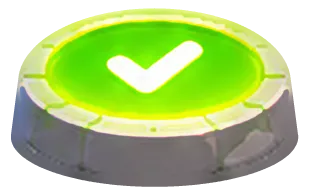
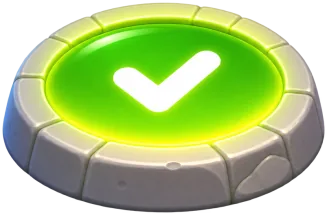
feat: exit pads straight from the owner's high-resolution pictures
The three looks are now the owner's checkpoint pictures, only downscaled
(stone 320 px = 1 cell, each look scaled on its own stone), with the
anchor on the fitted face centre. Evidence in
production/qa/evidence/garden-exit/elements/.

Design: design/themes/garden-exit.md

Claude-Session: https://claude.ai/code/session_01PBSmYqBfYXyG8SyW6SfNEM

diff --git a/tools/asset-pipeline/garden_exit/exit_pads.py b/tools/asset-pipeline/garden_exit/exit_pads.py
@@ -1,43 +1,99 @@
-"""Exit pad in three looks (grey, green, rays), cut from 22-sheet-exit-pad-states.
+"""Exit pad in three looks (grey, green, rays), from the owner's high-resolution pictures.
 
-`source_pad(look)` is the cut-out at the owner's size; `pad(look)` the enlarged one the game
-uses, with its anchor (the face centre) in pixels. Other parts derive from `source_pad('green')`.
+`hires_pad(look)` is the part the game uses: the owner's picture (`checkpoints.source`), only
+downscaled (premultiplied area average, `checkpoints.shrink`), nothing repainted. Other parts can
+build from `hires_pad('green')`.
 
-The owner's sheet is tiny (each pad ~100 px wide), so `pad` rebuilds what an enlargement cannot
-invent from the owner's picture itself, and nothing else:
+The three pictures are not drawn at the same scale, so each look is measured on its own:
 
-- the silhouette of the stone body is the convex hull of two ellipses (the rim top and the base
-  bottom) fitted to the pad's own outline, drawn antialiased at the output size, so it is a clean
-  curve instead of a blurred, bumpy edge;
-- the three rays are traced from the sheet (their saturated yellow), the traced outline smoothed
-  and drawn antialiased at the output size;
-- inside these shapes the colour is the owner's painting, enlarged with `enlarge.enlarge`
-  (Lanczos, then edges steepened between their local extremes: crisp tick, face edge and stone
-  joints, smooth shading, no ringing); colour is bled outward from the solid pixels, so no white
-  of the sheet can show as a halo;
-- the soft light glow around the rays stays soft (enlarged as it is); the faint drop shadow under
-  each pad on the sheet is left out, like the cut-outs before.
+- the stone: the widest run of fully opaque pixels below the rays (the stone's own outline, not
+  the glow or the rays); each look is scaled so that run is `PAD_STONE_OUT_PX` wide, and the stone
+  is one cell, so the three pads are the same size in the game;
+- the anchor (the point the game puts over the cell centre): the centre of an ellipse fitted to the
+  outline of the pad's face (the inner ellipse), carried to output pixels.
+
+`source_pad` and `anchor` are the old 22-sheet cut-out and its anchor, kept for the parts that
+still import them.
 """
 from __future__ import annotations
+
+from functools import lru_cache
 
 import cv2
 import numpy as np
 from scipy import ndimage
 
-from enlarge import enlarge
-from lib import CELLS_PER_SOURCE_PX, bottom, crop, cut_out, face_centre, hue_sat_val, load, write_part
+from checkpoints import PAD_STONE_OUT_PX, shrink, source
+from lib import bottom, crop, cut_out, face_centre, load, write_part
 
-# Each pad's box on the sheet (x0, y0, x1, y1); the small red mark under the third is left out.
+LOOKS = ("grey", "green", "rays")
+# Fully opaque: the stone is measured on these pixels, so the soft glow edge does not count.
+SOLID = 250
+# On the rays picture the stone starts below this row of `source('rays')` (the rays are above).
+RAYS_STONE_TOP = 270
+
+
+def stone_width(rgba: np.ndarray, look: str) -> int:
+    """Width in px of the widest solid row of the stone body."""
+    solid = rgba[..., 3] > SOLID
+    if look == "rays":
+        solid[:RAYS_STONE_TOP] = False
+    best = 0
+    for row in solid:
+        xs = np.nonzero(row)[0]
+        if len(xs):
+            best = max(best, int(xs[-1] - xs[0] + 1))
+    return best
+
+
+def _largest(mask: np.ndarray) -> np.ndarray:
+    lab, n = ndimage.label(mask)
+    sizes = ndimage.sum(mask, lab, range(1, n + 1))
+    return lab == int(np.argmax(sizes)) + 1
+
+
+def face_mask(rgba: np.ndarray, look: str) -> np.ndarray:
+    """The pad's face (inner ellipse), tick included.
+
+    Green and rays: the saturated green. Grey: the mid-grey inside the light rim (the face is
+    darker than the rim top and lighter than the groove round it)."""
+    r, g, b, a = (rgba[..., i] for i in range(4))
+    opaque = a > SOLID
+    if look == "grey":
+        lum = (r + g + b) / 3
+        m = ndimage.binary_opening((lum > 112) & (lum < 180) & opaque, iterations=3)
+    else:
+        m = ndimage.binary_opening((g - b > 120) & (g > 150) & (g - r > 40) & opaque, iterations=2)
+    return ndimage.binary_fill_holes(ndimage.binary_closing(_largest(m), iterations=10))
+
+
+def face_ellipse(rgba: np.ndarray, look: str) -> tuple[float, float, float, float]:
+    """(cx, cy, width, height) of the ellipse fitted to the face outline, in the picture's px."""
+    found, _ = cv2.findContours(face_mask(rgba, look).astype(np.uint8), cv2.RETR_EXTERNAL, cv2.CHAIN_APPROX_NONE)
+    (cx, cy), (d0, d1), angle = cv2.fitEllipse(max(found, key=len))
+    w, h = (d1, d0) if 45 < angle < 135 else (d0, d1)
+    return cx, cy, w, h
+
+
+@lru_cache(maxsize=None)
+def _hires(look: str) -> tuple[np.ndarray, tuple[float, float]]:
+    src = source(look)
+    rgba = shrink(src, PAD_STONE_OUT_PX / stone_width(src, look))
+    # Pixel centres: out = (in + 0.5) * scale - 0.5, with the scale shrink actually used per axis.
+    sx, sy = rgba.shape[1] / src.shape[1], rgba.shape[0] / src.shape[0]
+    cx, cy, _, _ = face_ellipse(src, look)
+    return rgba, ((cx + 0.5) * sx - 0.5, (cy + 0.5) * sy - 0.5)
+
+
+def hires_pad(look: str) -> tuple[np.ndarray, tuple[float, float]]:
+    """One look at output size (stone `PAD_STONE_OUT_PX` wide = 1 cell) and its anchor in px."""
+    rgba, at = _hires(look)
+    return rgba.copy(), at
+
+
+# --- The old 22-sheet cut-out, kept for parts that import it -------------------------------------
 BOXES = {"grey": (5, 0, 108, 88), "green": (117, 0, 224, 88), "rays": (236, 0, 342, 86)}
 SHEET = "22-sheet-exit-pad-states"
-
-# Output size: FACTOR times the owner's sheet (~300 px wide pads).
-FACTOR = 3
-# Outlines are traced at TRACE times the sheet and smoothed along their length by SMOOTH sheet px.
-TRACE = 8
-SMOOTH = 0.9
-# Antialiasing: shapes are drawn at SUPER times the output size and averaged down.
-SUPER = 4
 
 
 def source_pad(look: str) -> np.ndarray:
@@ -53,151 +109,9 @@ def anchor(look: str, rgba: np.ndarray) -> tuple[float, float]:
     return ((xs.min() + xs.max()) / 2, bottom(rgba) - rise)
 
 
-def _window(look: str) -> tuple[np.ndarray, np.ndarray]:
-    """The cut-out and the raw sheet colour over exactly the area `source_pad` covers."""
-    rgb = load(SHEET)
-    cut = cut_out(rgb)
-    x0, y0, x1, y1 = BOXES[look]
-    cut, rgb = cut[y0:y1, x0:x1], rgb[y0:y1, x0:x1]
-    ys, xs = np.nonzero(cut[..., 3] > 3)
-    m = 2  # the margin lib.crop keeps
-    sy = slice(max(0, ys.min() - m), min(cut.shape[0], ys.max() + 1 + m))
-    sx = slice(max(0, xs.min() - m), min(cut.shape[1], xs.max() + 1 + m))
-    return cut[sy, sx], rgb[sy, sx]
-
-
-def _outlines(mask: np.ndarray, level: float = 0.5, min_area: float = 12) -> list[np.ndarray]:
-    """Sub-pixel outlines (sheet px, pixel edges at integers) of a 0..1 map at `level`, smoothed."""
-    h, w = mask.shape
-    big = cv2.resize(mask.astype(np.float32), (w * TRACE, h * TRACE), interpolation=cv2.INTER_CUBIC)
-    found, _ = cv2.findContours((big > level).astype(np.uint8), cv2.RETR_EXTERNAL, cv2.CHAIN_APPROX_NONE)
-    out = []
-    for c in found:
-        if cv2.contourArea(c) < min_area * TRACE * TRACE:
-            continue
-        p = ndimage.gaussian_filter1d(c[:, 0, :].astype(float), SMOOTH * TRACE, axis=0, mode="wrap")
-        out.append((p + 0.5) / TRACE)
-    return out
-
-
-def _ellipse(points: np.ndarray) -> tuple[float, float, float, float]:
-    """Axis-aligned ellipse (cx, cy, rx, ry) through `points` by least squares."""
-    x, y = points[:, 0], points[:, 1]
-    a, b, c, d = np.linalg.lstsq(np.c_[x * x, y * y, x, y], np.ones(len(x)), rcond=None)[0]
-    cx, cy = -c / (2 * a), -d / (2 * b)
-    r = 1 + a * cx * cx + b * cy * cy
-    return cx, cy, float(np.sqrt(r / a)), float(np.sqrt(r / b))
-
-
-def _ellipse_points(e: tuple[float, float, float, float], n: int = 720) -> np.ndarray:
-    cx, cy, rx, ry = e
-    t = np.linspace(0, 2 * np.pi, n, endpoint=False)
-    return np.c_[cx + rx * np.cos(t), cy + ry * np.sin(t)]
-
-
-def _body(look: str) -> tuple[np.ndarray, tuple[float, float, float, float]]:
-    """The stone body's outline (sheet px) as the hull of the rim-top and base-bottom ellipses,
-    each fitted to the pad's own traced outline; and the rim-top ellipse.
-
-    The rays pad's rim top is hidden under its glow, so it takes the green pad's rim-top ellipse,
-    scaled and moved with the base-bottom ellipse the rays pad shows itself."""
-    def fit(look: str):
-        cut, _ = _window(look)
-        outline = max(_outlines(cut[..., 3] / 255), key=len)
-        x, y = outline[:, 0], outline[:, 1]
-        y0, y1 = y.min(), y.max()
-        if look == "rays":
-            y0 = y1 - 45  # below the rays and their glow
-        h = y1 - y0
-        sel = y >= y0
-        top = _ellipse(outline[sel & (y < y0 + 0.45 * h)]) if look != "rays" else None
-        base = _ellipse(outline[sel & (y > y0 + 0.62 * h)])
-        return top, base
-
-    top, base = fit(look)
-    if top is None:
-        g_top, g_base = fit("green")
-        s = base[2] / g_base[2]
-        top = (base[0] + (g_top[0] - g_base[0]) * s, base[1] + (g_top[1] - g_base[1]) * s, g_top[2] * s, g_top[3] * s)
-    hull = cv2.convexHull(np.vstack([_ellipse_points(top), _ellipse_points(base)]).astype(np.float32))[:, 0, :]
-    return hull.astype(float), top
-
-
-def _rays(look: str, rim_top: tuple[float, float, float, float]) -> list[np.ndarray]:
-    """The rays' outlines (sheet px): the saturated yellow above the rim, traced."""
-    if look != "rays":
-        return []
-    cut, rgb = _window(look)
-    hue, sat, val = hue_sat_val(np.dstack([rgb, np.full(rgb.shape[:2], 255.0)]))
-    yellow = np.clip((sat - 0.35) / 0.3, 0, 1) * np.clip(1 - np.abs(hue - 48) / 22, 0, 1)
-    rows = np.arange(rgb.shape[0])[:, None]
-    yellow = yellow * (rows < rim_top[1] - rim_top[3] - 1)
-    return _outlines(yellow, 0.5, min_area=20)
-
-
-def _draw(polys: list[np.ndarray], size: tuple[int, int], factor: float) -> np.ndarray:
-    """Antialiased coverage 0..1 of the filled outlines at the output size."""
-    w, h = size
-    canvas = np.zeros((h * SUPER, w * SUPER), np.uint8)
-    for p in polys:
-        q = np.round(p * factor * SUPER * 16).astype(np.int32)
-        cv2.fillPoly(canvas, [q], 255, lineType=cv2.LINE_8, shift=4)
-    return cv2.resize(canvas.astype(np.float32), size, interpolation=cv2.INTER_AREA) / 255
-
-
-def pad(look: str, factor: float = FACTOR) -> tuple[np.ndarray, tuple[float, float]]:
-    cut, rgb = _window(look)
-    h, w = cut.shape[:2]
-    size = (round(w * factor), round(h * factor))
-    hull, rim_top = _body(look)
-    rays = _rays(look, rim_top)
-    solid_big = _draw([hull] + rays, size, factor)
-
-    # The owner's colour inside the shapes, bled outward from pixels well inside, enlarged.
-    # Colour is taken only more than 2.5 sheet px in from the pad's painted edge: the edge pixels
-    # are mixed with the sheet's white and its drop shadow. Further in it is the painting as is.
-    solid = _draw([hull] + rays, (w, h), 1.0) > 0.5
-    painted = ndimage.binary_fill_holes(cut[..., 3] > 115)
-    core = solid & (ndimage.distance_transform_edt(painted) > 2.5)
-    # Along the base the sheet fades through a light drop shadow: there go 2 px in from where
-    # the pad is fully opaque instead.
-    opaque = ndimage.binary_fill_holes(cut[..., 3] > 235)
-    lower = (np.arange(h)[:, None] > rim_top[1]) & np.ones((1, w), bool)
-    core &= ~(lower & (ndimage.distance_transform_edt(opaque) <= 2))
-    # Outside the core: a smooth average of the nearby core colour (normalised blur), not the
-    # nearest pixel, so the bled band carries no streaks.
-    _, (iy, ix) = ndimage.distance_transform_edt(~core, return_indices=True)
-    k = core.astype(float)
-    num = np.dstack([ndimage.gaussian_filter(rgb[..., c] * k, 2.0) for c in range(3)])
-    den = ndimage.gaussian_filter(k, 2.0)[..., None]
-    soft = np.where(den > 0.02, num / np.maximum(den, 1e-6), rgb[iy, ix])
-    colour = np.where(core[..., None], rgb, soft)
-    big = enlarge(np.dstack([colour, np.full((h, w), 255.0)]), factor)
-    rgba = np.dstack([big[..., :3], solid_big * 255])
-
-    if look == "rays":
-        # The soft glow around the rays: the cut-out itself, enlarged smoothly, under the shapes,
-        # above the rim only (no drop shadow).
-        a = cut[..., 3:4] / 255
-        pre = np.dstack([cut[..., :3] * a, cut[..., 3:4]]).astype(np.float32)
-        g = cv2.resize(pre, size, interpolation=cv2.INTER_CUBIC)
-        rows = (np.arange(size[1])[:, None] + 0.5) / factor
-        # Glow only above the top of the rim (it fades out over 2 sheet px there).
-        g = g * np.clip((rim_top[1] - rim_top[3] + 2 - rows) / 2, 0, 1)[..., None]
-        ga = np.clip(g[..., 3], 0, 255) / 255
-        grgb = np.clip(g[..., :3] / np.maximum(ga[..., None] * 255, 1e-3) * 255, 0, 255)
-        sa = solid_big[..., None]
-        out_a = sa + ga[..., None] * (1 - sa)
-        out_rgb = (big[..., :3] * sa + grgb * ga[..., None] * (1 - sa)) / np.maximum(out_a, 1e-4)
-        rgba = np.dstack([np.clip(out_rgb, 0, 255), out_a[..., 0] * 255])
-
-    ax, ay = anchor(look, cut)
-    return rgba, ((ax + 0.5) * factor - 0.5, (ay + 0.5) * factor - 0.5)
-
-
 def run() -> None:
     sprites = {}
-    for look in ("grey", "green", "rays"):
-        rgba, at = pad(look)
-        sprites[f"exit-{look}"] = (rgba, at, CELLS_PER_SOURCE_PX / FACTOR)
+    for look in LOOKS:
+        rgba, at = hires_pad(look)
+        sprites[f"exit-{look}"] = (rgba, at, 1.0 / PAD_STONE_OUT_PX)
     write_part("exit_pads", sprites)
